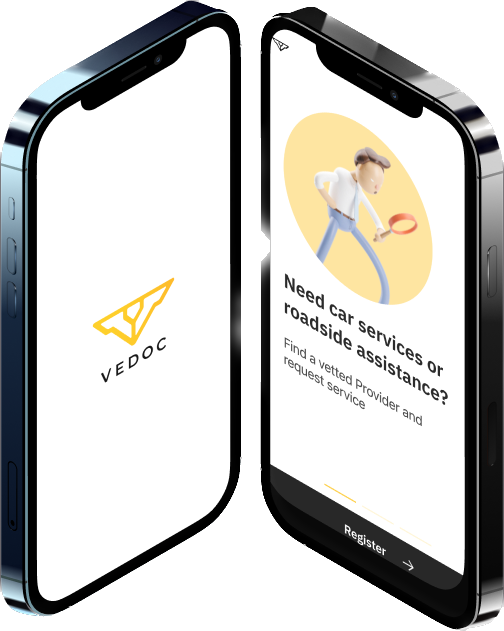
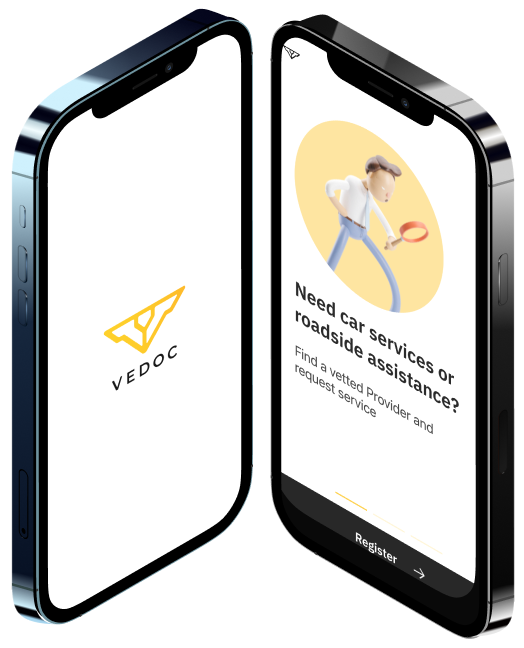
ad desktop v

diff --git a/app/components/ad.js b/app/components/ad.js
@@ -4,12 +4,12 @@ import Link from 'next/link'
 
 export default function Ad() {
   return (
-    <div className='ad-section'>
-      <div className='flex flex-col w-2/3 py-16 pl-20'>
-        <h3 className='font-roboto text-5xl uppercase font-medium pb-6'>
+    <div className='ad-section pt-24 lg:px-24'>
+      <div className='flex flex-col w-full lg:w-3/5 lg:pb-24 lg:pr-10'>
+        <h3 className='font-roboto text-5xl uppercase font-medium pb-7'>
           Empowering Auto Experts and Car Owners with Vedoc
         </h3>
-        <p className='text-base leading-7 font-normal w-3/4 pb-4'>Vedoc revolutionizes car care for both mechanics and users. Mechanics, amplify your business with Vedoc&apos;s tailored platform. Users, dive into a new era of automotive convenience. Download Vedoc now.</p>
+        <p className='leading-7 font-light text-xl w-5/6 pb-7'>Vedoc revolutionizes car care for both mechanics and users. Mechanics, amplify your business with Vedoc&apos;s tailored platform. Users, dive into a new era of automotive convenience. Download Vedoc now.</p>
         <div className='flex'>
           <Link href="#" className=''>
           <Image
@@ -33,15 +33,9 @@ export default function Ad() {
           </Link>
         </div>
       </div>
-      <div className='flex relative justify-end overflow-hidden'>
-        <Image
-            src='/images/ad_app.png'
-            alt='Vedoc Ad'
-            width={500}
-            height={650}
-            quality={100}
-            className='relative -bottom-32'
-          />
+      <div className='flex relative'>
+        <div className='phones'>
+        </div>
       </div>
     </div>
   )

diff --git a/app/globals.css b/app/globals.css
@@ -35,7 +35,12 @@ body {
 
   /* Ad */
   .ad-section {
-    @apply w-full lg:flex fixed top-40 bg-vedoc-ad-yellow shadow;
-    height: 30rem;
+    @apply w-full lg:flex fixed top-20 bg-vedoc-ad-yellow shadow xl:h-auto h-fit;
+  }
+
+  .phones {
+    @apply bg-cover lg:bg-contain xl:bg-cover bg-no-repeat bg-top overflow-y-hidden;
+    background-image: url('/images/ad_app.png');
+    width: 524px;
   }
 }
